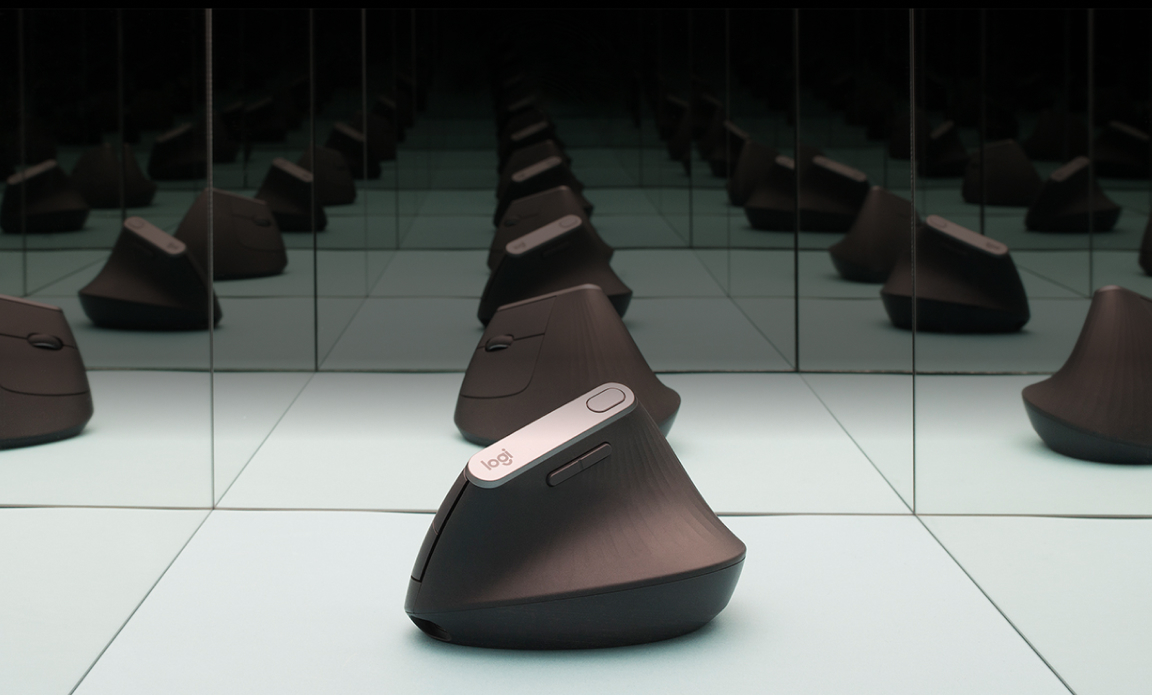
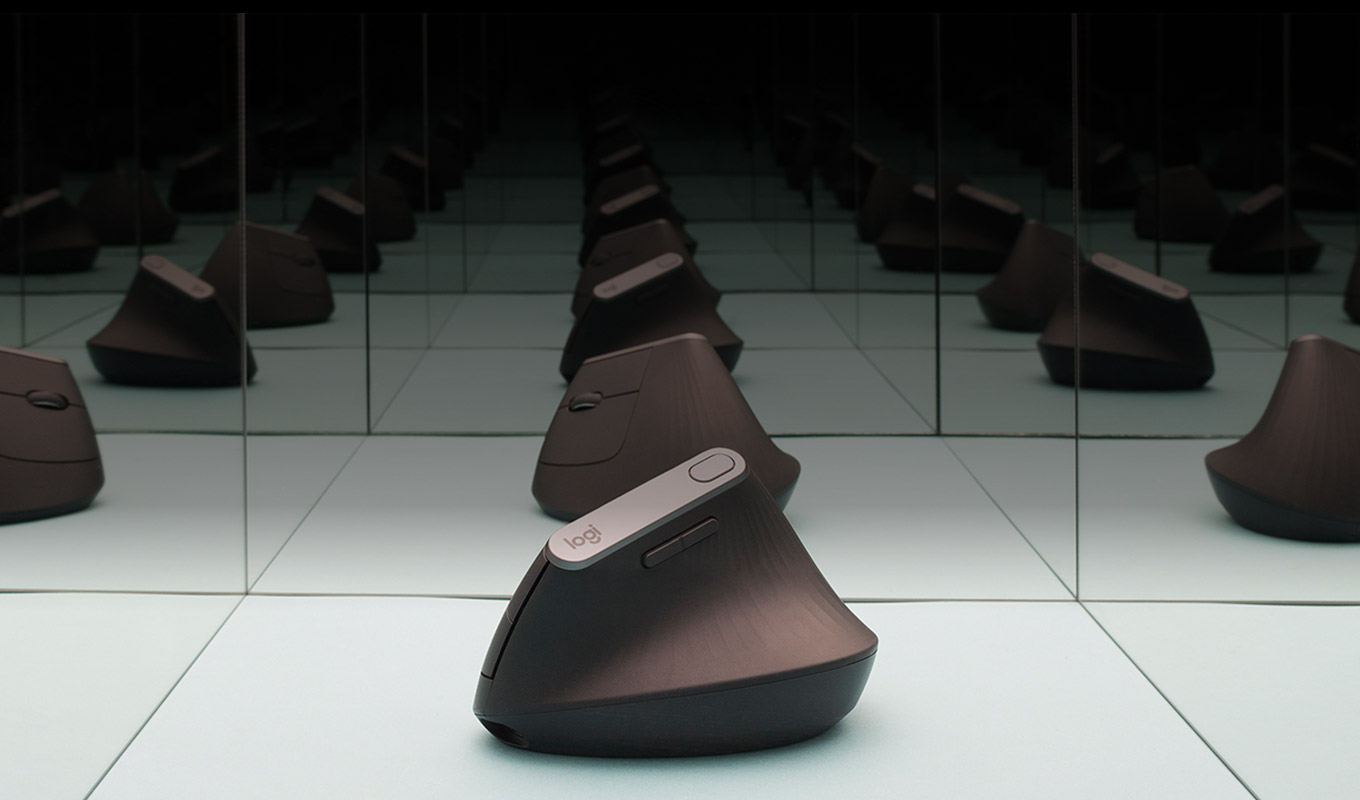
Update campaign images

diff --git a/src/stylesheets/components/section.scss b/src/stylesheets/components/section.scss
@@ -48,7 +48,7 @@ $component-base: ".#{$component-name}";
     height: 100%;
 
     object-fit: cover;
-    object-position: 50% 70%;
+    object-position: 50% 80%;
   }
 
   // Element: Content
